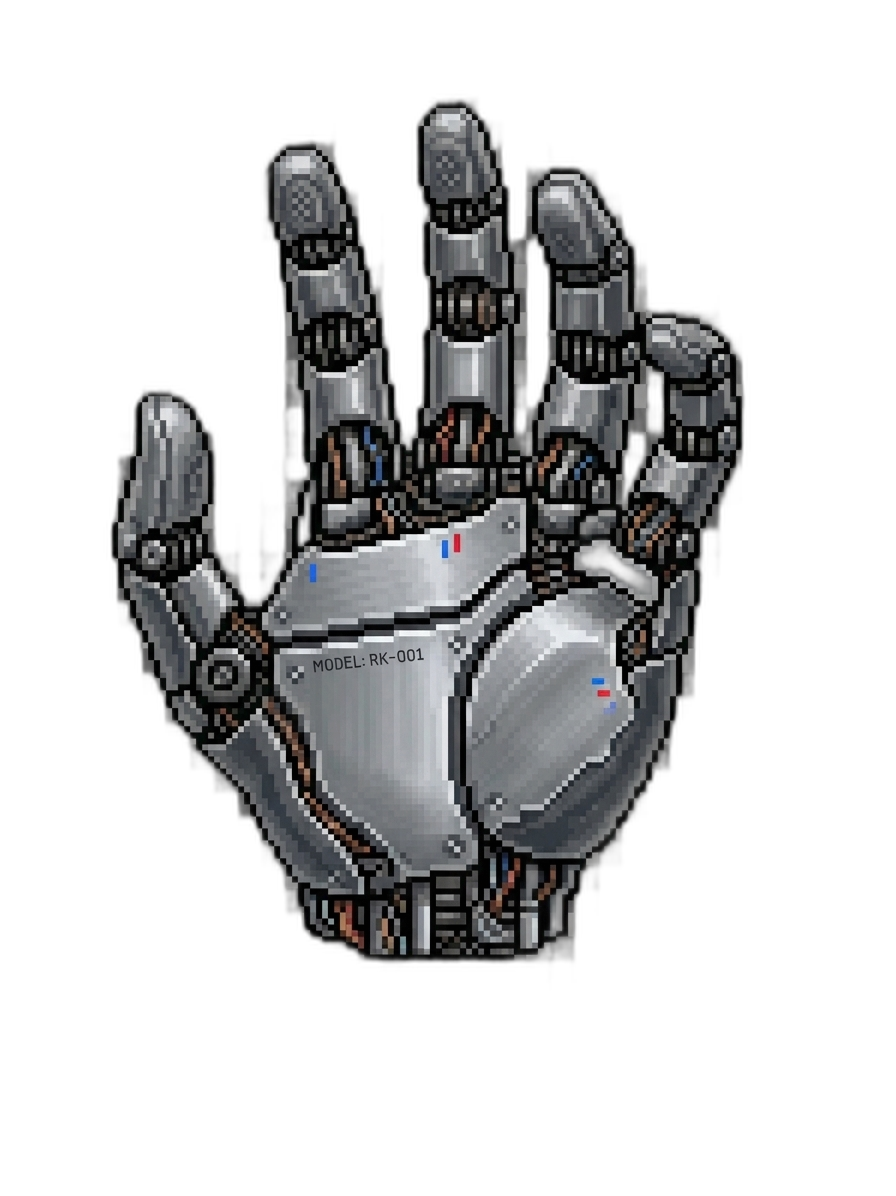
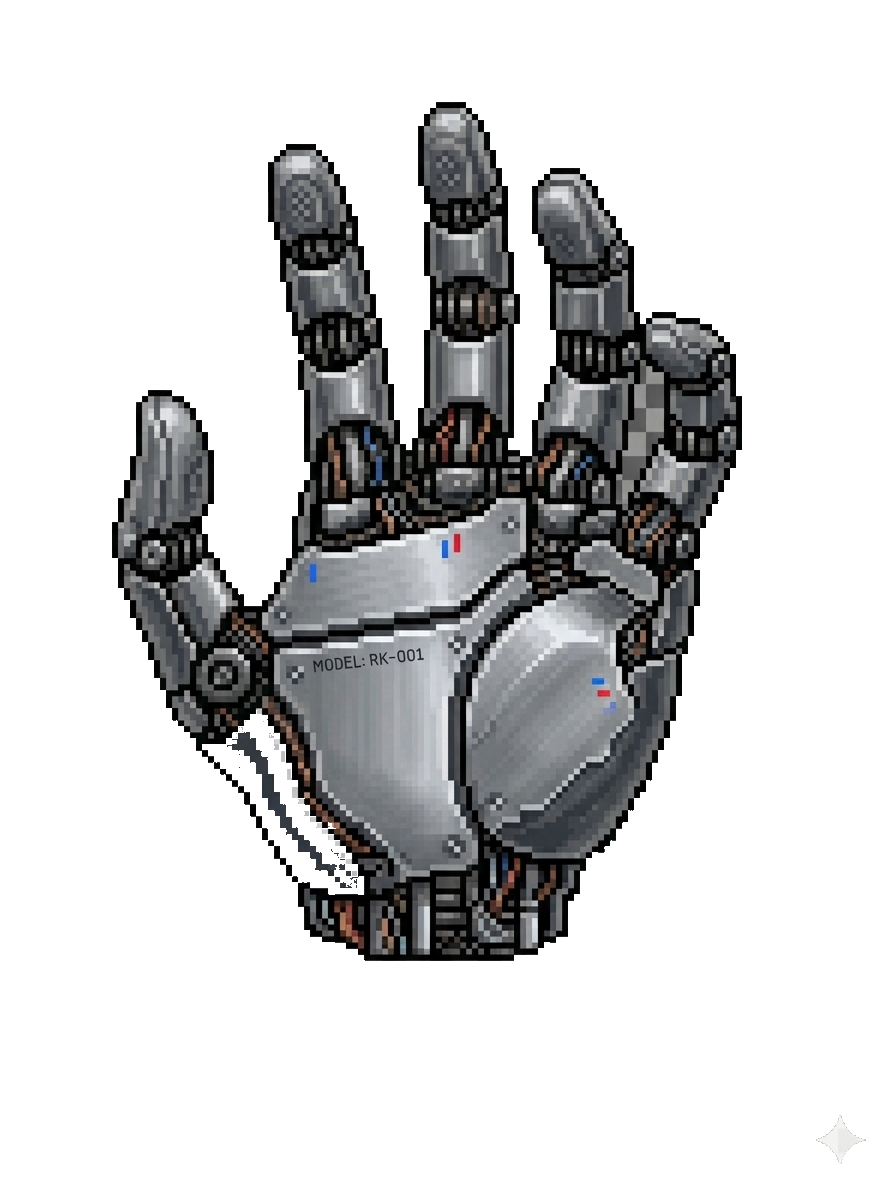
Fix boss images + stage backgrounds + face/hand sizes
Images:
- Restore originals and re-apply background removal using flood-fill
  from corners (rembg had removed the metallic gray robot as bg)
- hand_r uses IMG_3784, hand_l uses IMG_3785 directly (no mirror)
- Remove scaleX(-1) mirror transform from hand_l

Sizes:
- BOSS_FACE_SIZE 150→170, BOSS_HAND_SIZE 120→105
  (face visibly larger than both hands)

Stage backgrounds (per-stage bg field in STAGE_CONFIGS):
- Stage 1 → IMG_3781.png
- Stage 2 → IMG_3782.png
- Stage 3 → IMG_3783.png
- Stage 4 → IMG_3753.png (unchanged)
- Stage 5 → IMG_3753.png (space)
- startStage sets #gameBg backgroundImage dynamically

https://claude.ai/code/session_018VHUaEQUF4zj6uA4b24amE

diff --git a/index.html b/index.html
@@ -1006,15 +1006,15 @@
   const STAGE_TIME_S      = 28;
   const STAGE_CONFIGS = [
     { num: 1, label: 'STAGE 1', subtitle: 'パラレルの男', spawnLimit: 45,
-      srcs: ['IMG_3775.png','IMG_3776.png','IMG_3777.png'], vyMin: 0.4, vyMax: 0.8, duration: 28 },
+      srcs: ['IMG_3775.png','IMG_3776.png','IMG_3777.png'], vyMin: 0.4, vyMax: 0.8, duration: 28, bg: 'IMG_3781.png' },
     { num: 2, label: 'STAGE 2', subtitle: 'ツインタワー', spawnLimit: 55,
-      srcs: ['IMG_3775.png','IMG_3776.png','IMG_3777.png'], vyMin: 0.6, vyMax: 1.1, duration: 28 },
+      srcs: ['IMG_3775.png','IMG_3776.png','IMG_3777.png'], vyMin: 0.6, vyMax: 1.1, duration: 28, bg: 'IMG_3782.png' },
     { num: 3, label: 'STAGE 3', subtitle: '俺つらぬく', spawnLimit: 60,
-      srcs: ['IMG_3775.png','IMG_3776.png','IMG_3777.png'], vyMin: 0.9, vyMax: 1.5, duration: 28 },
+      srcs: ['IMG_3775.png','IMG_3776.png','IMG_3777.png'], vyMin: 0.9, vyMax: 1.5, duration: 28, bg: 'IMG_3783.png' },
     { num: 4, label: 'STAGE 4', subtitle: '漢', spawnLimit: 70,
-      srcs: ['IMG_3775.png','IMG_3756.png','IMG_3777.png'], vyMin: 1.2, vyMax: 2.0, duration: 28 },
+      srcs: ['IMG_3775.png','IMG_3756.png','IMG_3777.png'], vyMin: 1.2, vyMax: 2.0, duration: 28, bg: 'IMG_3753.png' },
     { num: 5, label: 'STAGE 5', subtitle: 'RK-001', spawnLimit: 999, boss: true,
-      srcs: ['IMG_3784.png','IMG_3786.png'], vyMin: 0, vyMax: 0, duration: 60 },
+      srcs: ['IMG_3784.png','IMG_3786.png'], vyMin: 0, vyMax: 0, duration: 60, bg: 'IMG_3753.png' },
   ];
 
   let heroImgSrcs    = [];
@@ -1043,8 +1043,8 @@
   let invincibleTimer  = null;
 
   /* ── Stage 5 boss state ── */
-  const BOSS_FACE_SIZE  = 150;
-  const BOSS_HAND_SIZE  = 120;
+  const BOSS_FACE_SIZE  = 170;
+  const BOSS_HAND_SIZE  = 105;
   const BOSS_FACE_HP    = 20;
   const BOSS_HAND_HP    = 30;
   let bossStageActive        = false;
@@ -1974,9 +1974,10 @@
     el.appendChild(overlay);
 
     const img = document.createElement('img');
-    img.src = type === 'face' ? 'IMG_3786.png' : 'IMG_3784.png';
+    img.src = type === 'face' ? 'IMG_3786.png'
+            : type === 'hand_l' ? 'IMG_3785.png'
+            : 'IMG_3784.png';
     img.draggable = false;
-    if (type === 'hand_l') img.style.transform = 'scaleX(-1)';
     el.appendChild(img);
 
     el.style.width  = size + 'px';
@@ -1992,7 +1993,7 @@
     const enemy = {
       el, x, y, vx: 0, vy: 0, size, hp,
       shootTimer: null, animTimer: null,
-      src: type === 'face' ? 'IMG_3786.png' : 'IMG_3784.png',
+      src: type === 'face' ? 'IMG_3786.png' : type === 'hand_l' ? 'IMG_3785.png' : 'IMG_3784.png',
       fixed: true, bossType: type, handPhase: false
     };
     enemies.push(enemy);
@@ -2043,8 +2044,9 @@
     if (gameOver || !enemy.el.isConnected) return;
     const img = enemy.el.querySelector('img');
     if (img) {
-      img.src = enemy.handPhase ? 'IMG_3785.png' : 'IMG_3784.png';
-      if (enemy.bossType === 'hand_l') img.style.transform = 'scaleX(-1)';
+      img.src = enemy.bossType === 'hand_l'
+        ? (enemy.handPhase ? 'IMG_3785.png' : 'IMG_3785.png')
+        : (enemy.handPhase ? 'IMG_3784.png' : 'IMG_3784.png');
       enemy.handPhase = !enemy.handPhase;
     }
     enemy.animTimer = setTimeout(() => bossHandAnimate(enemy), 700);
@@ -2127,6 +2129,7 @@ function runCountdown(cb) {
     document.getElementById('hudScore').textContent  = '💥 0体撃破';
     document.getElementById('hudRemain').textContent = cfg.boss ? '💀 BOSS' : `残り ${cfg.spawnLimit}体`;
 
+    document.getElementById('gameBg').style.backgroundImage = `url('${cfg.bg || 'IMG_3753.png'}')`;
     showScreen($game);
     showStageLabel(cfg.label, cfg.subtitle);
     setTimeout(() => playStageUp(), 100);
